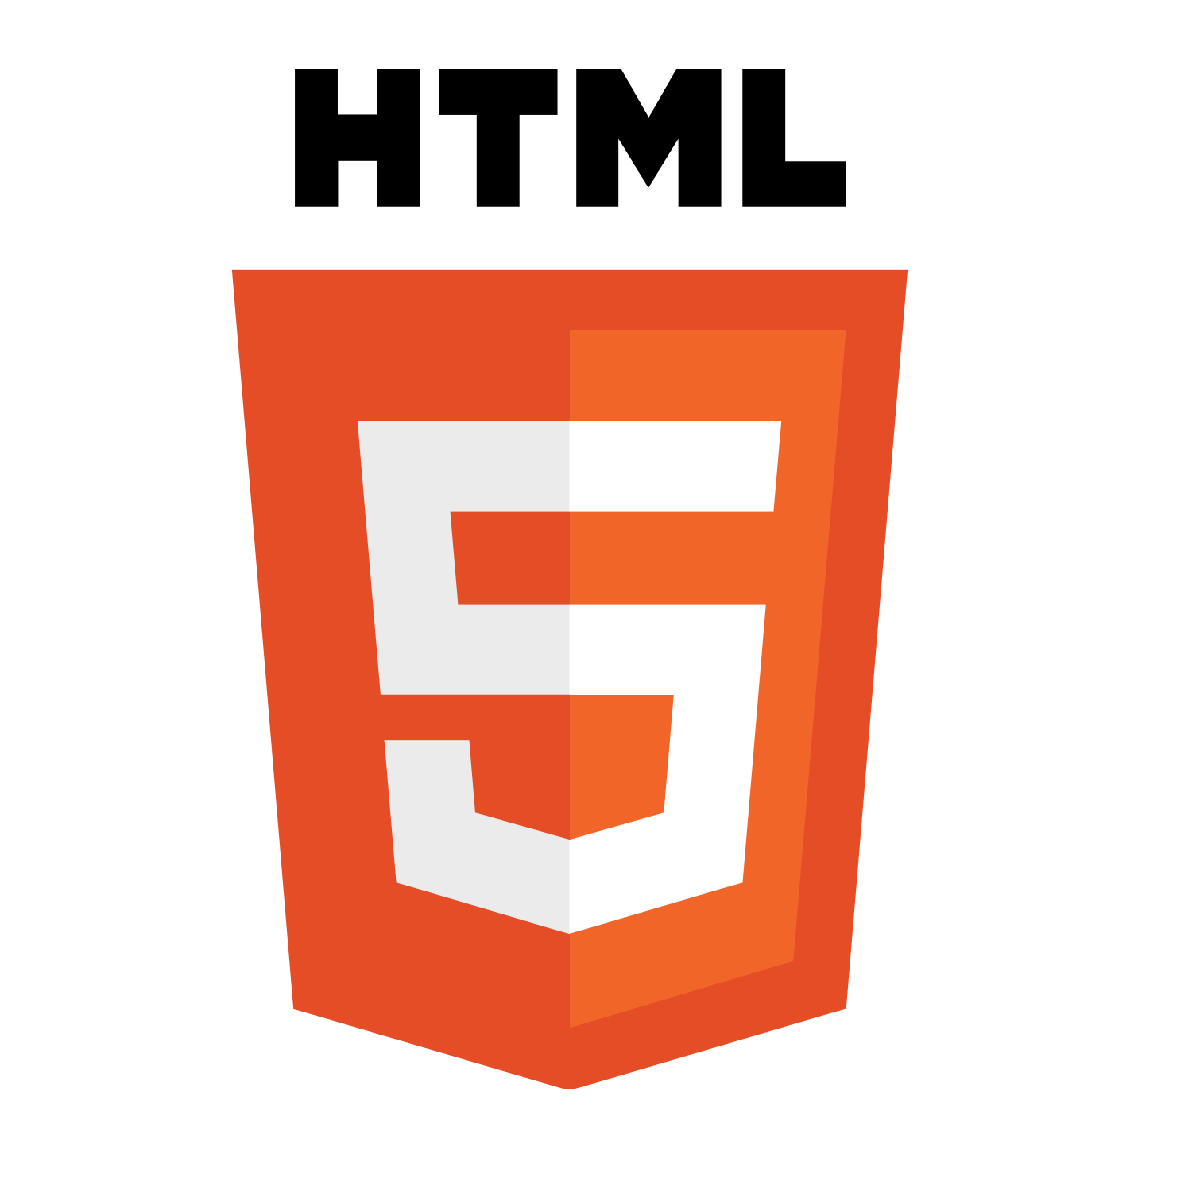
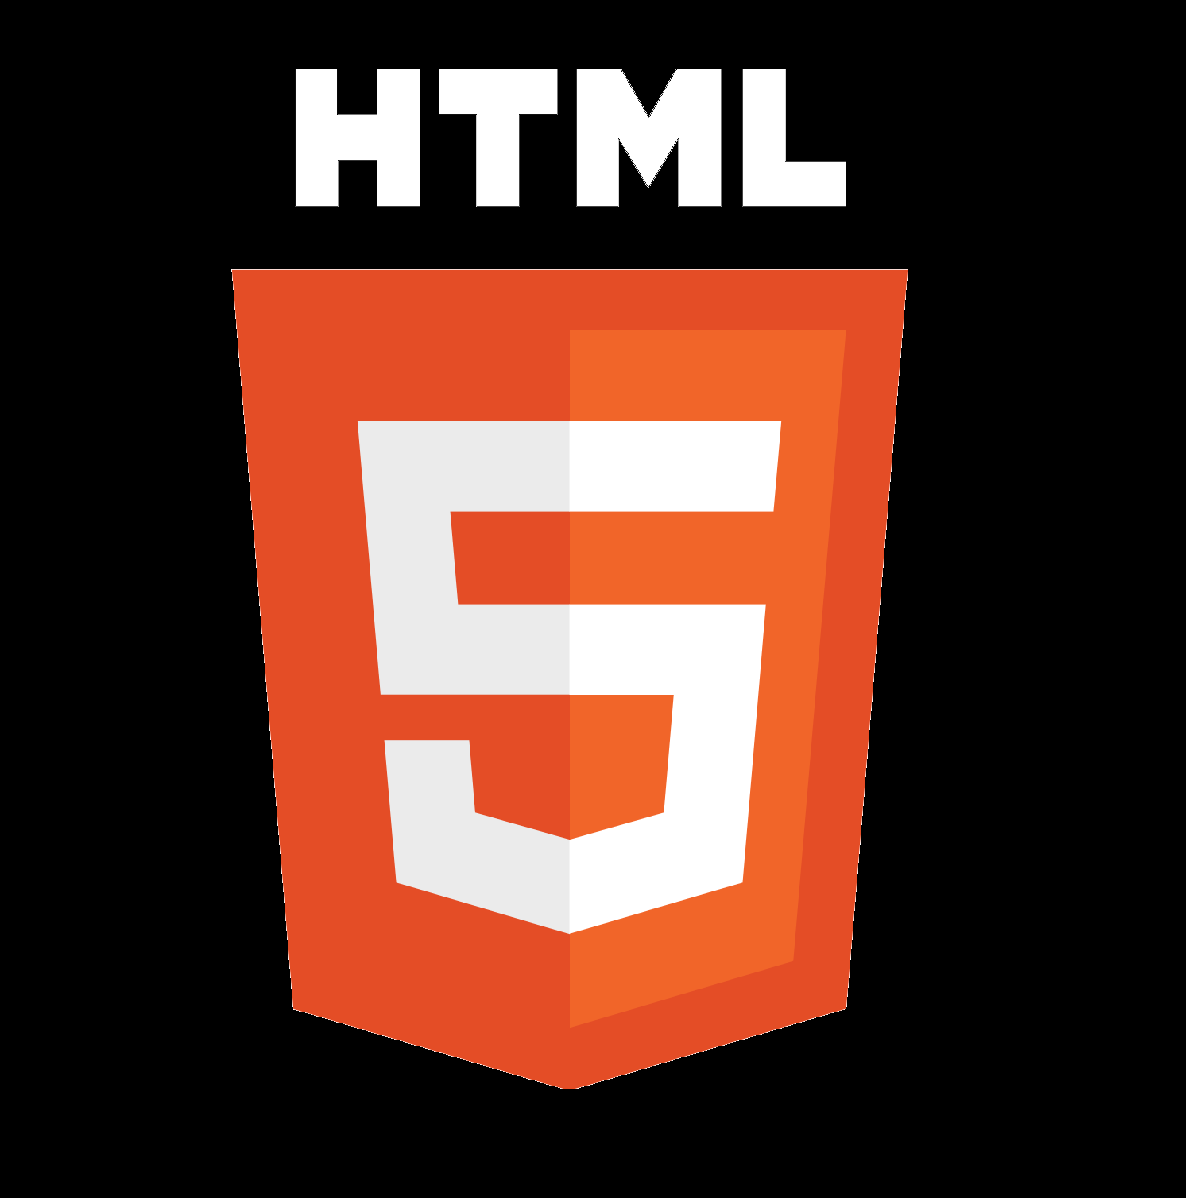
fixed skills images

diff --git a/css/custom.css b/css/custom.css
@@ -166,7 +166,7 @@ a {
 }
 
 .react-img{
-  background-image: url("../img/react.png");
+  background-image: url("../img/react2.png");
   background-size: cover;
 }
 
@@ -188,9 +188,9 @@ a {
 }
 
 .c-img{
-  background-image: url("../img/c.png");
+  background-image: url("../img/c.jpg");
   background-size: cover;
-  background-position: bottom;
+  background-position: center;
 }
 
 .github-img{
@@ -218,7 +218,7 @@ a {
 }
 
 .html-img{
-  background-image: url("../img/html.jpg");
+  background-image: url("../img/html.png");
   /* font-size: 3rem; */
   /* vertical-align: auto; */
   background-size: cover;
@@ -236,6 +236,7 @@ a {
   background-image: url("../img/bootstrap.jpg");
   background-size: cover;
   background-position: bottom;
+  border-radius: 18%;
 }
 
 .babel-img{
